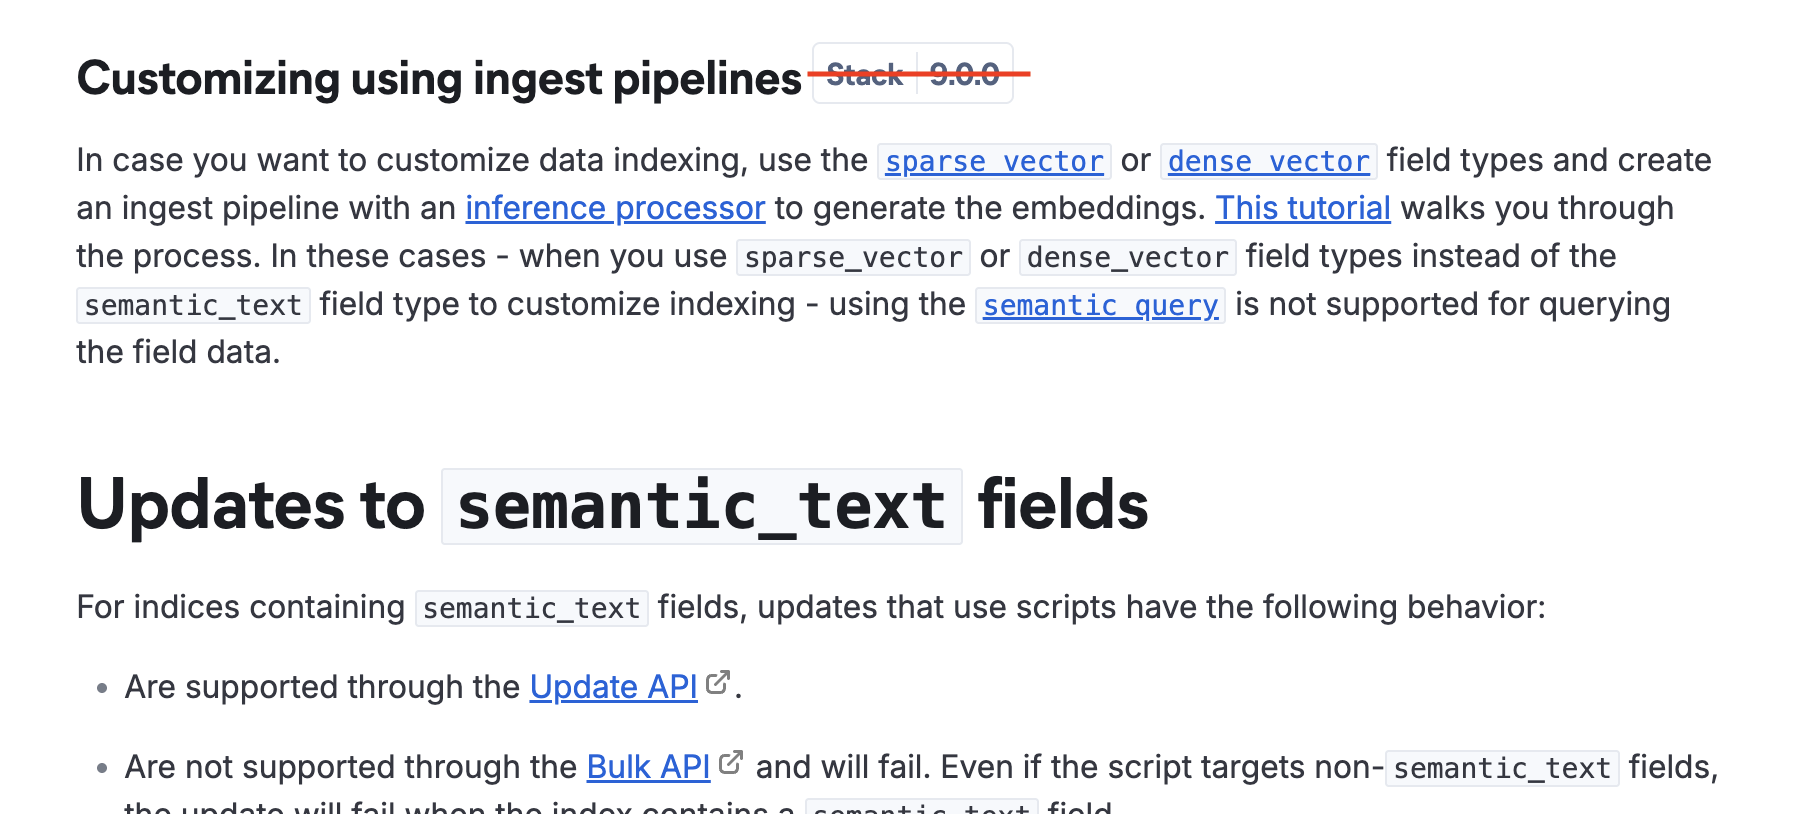
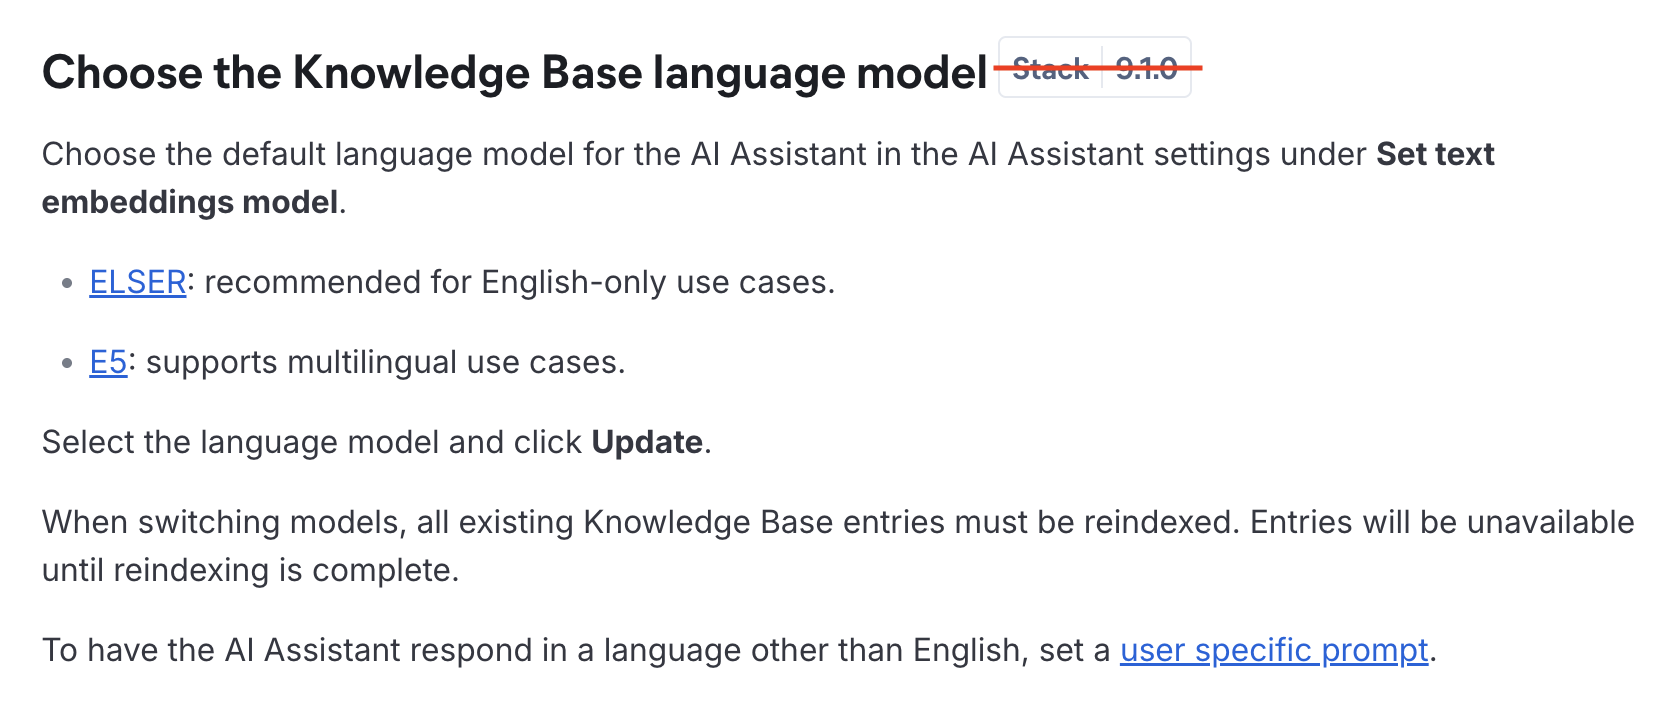
shain-ify badge placement page

diff --git a/docs/contribute/cumulative-docs/badge-placement.md b/docs/contribute/cumulative-docs/badge-placement.md
@@ -31,7 +31,7 @@ There are more specific guidelines on badge placement to follow when using speci
 
 Use [section annotations](/syntax/applies.md#section-annotations) on the next line after a heading when the entire content between that heading and the next [heading](/syntax/headings.md) of the same or higher level is version or product-specific.
 
-For example, in the [Semantic text field type](https://www.elastic.co/docs/reference/elasticsearch/mapping-reference/semantic-text#custom-by-pipelines) page, all the content in this section is only applicable to Elastic Stack versions 9.0.0 and later.
+For example, on the [Observability AI Assistant](https://www.elastic.co/docs/solutions/observability/observability-ai-assistant#choose-the-knowledge-base-language-model) page, all the content in this section is only applicable to Elastic Stack versions 9.1.0 and later.
 
 ::::{image} ./images/heading-correct.png
 :screenshot:
